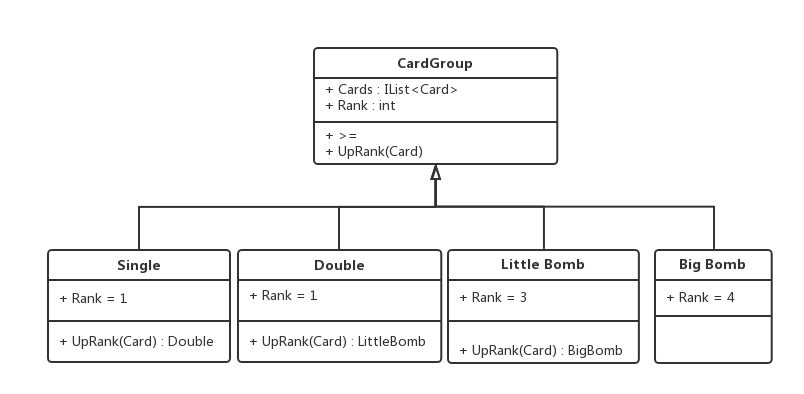
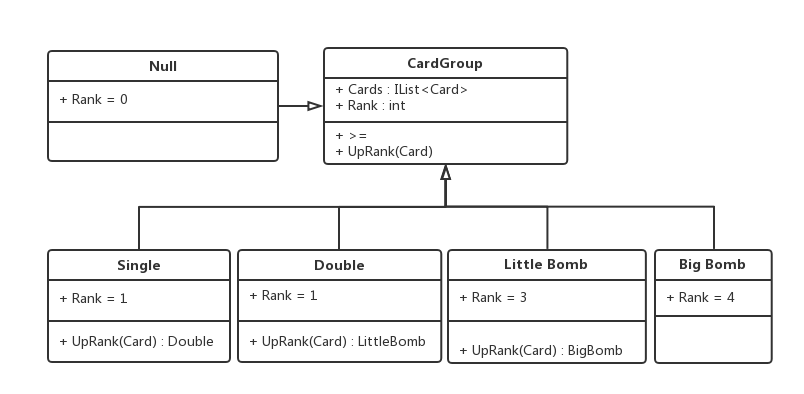
Step 8: 使用继承和多态实现多种牌型

diff --git a/PokerGame.Test/CardGroupTests.cs b/PokerGame.Test/CardGroupTests.cs
@@ -1,0 +1,102 @@
+using System.Collections.Generic;
+using NUnit.Framework;
+
+namespace PokerGame.Test
+{
+    [TestFixture]
+    public class CardGroupTests
+    {
+        private CardGroup big;
+        private CardGroup little;
+        
+        [Test]
+        public void when_up_rank_to_double()
+        {
+            big = new Single(new Card("黑桃", "7"))
+                .UpRank(new Card("红桃", "7"));
+            Assert.IsInstanceOf<Double>(big);
+        }
+
+        [Test]
+        public void when_up_rank_to_little_bomb()
+        {
+            big = new Single(new Card("黑桃", "7"))
+                .UpRank(new Card("红桃", "7"))
+                .UpRank(new Card("梅花", "7"));
+            Assert.IsInstanceOf<LittleBomb>(big);
+        }
+
+        [Test]
+        public void when_up_rank_to_big_bomb()
+        {
+            big = new Single(new Card("黑桃", "7"))
+                .UpRank(new Card("红桃", "7"))
+                .UpRank(new Card("梅花", "7"))
+                .UpRank(new Card("方块", "7"));
+            Assert.IsInstanceOf<BigBomb>(big);
+        }
+
+        [Test]
+        public void when_compare_single_with_single()
+        {
+            big = new Single(new Card("黑桃", "7"));
+            little = new Single(new Card("黑桃", "10"));
+            Assert.True(big >= little);
+        }
+
+        [Test]
+        public void when_compare_little_bomb_with_little_bomb()
+        {
+            big = new Single(new Card("黑桃", "7"))
+                .UpRank(new Card("红桃", "7"))
+                .UpRank(new Card("梅花", "7"));
+            little = new Single(new Card("黑桃", "4"))
+                .UpRank(new Card("红桃", "4"))
+                .UpRank(new Card("梅花", "4"));
+            Assert.True(big >= little);
+        }
+
+        [Test]
+        public void when_compare_double_with_single()
+        {
+            big = new Single(new Card("黑桃", "7"))
+                .UpRank(new Card("红桃", "7"));
+            little = new Single(new Card("黑桃", "4"));
+            Assert.False(big >= little);
+        }
+
+        [Test]
+        public void when_compare_little_bomb_with_single()
+        {
+            big = new Single(new Card("黑桃", "4"))
+                .UpRank(new Card("红桃", "4"))
+                .UpRank(new Card("梅花", "4"));
+            little = new Single(new Card("黑桃", "7"));
+            Assert.True(big >= little);
+        }
+
+        [Test]
+        public void when_compare_little_bomb_with_double()
+        {
+            big = new Single(new Card("黑桃", "4"))
+                .UpRank(new Card("红桃", "4"))
+                .UpRank(new Card("梅花", "4"));
+            little = new Single(new Card("黑桃", "7"))
+                .UpRank(new Card("红桃", "7"));
+            Assert.True(big >= little);
+        }
+
+        [Test]
+        public void when_compare_big_bomb_with_little_bomb()
+        {
+            big = new Single(new Card("黑桃", "4"))
+                .UpRank(new Card("红桃", "4"))
+                .UpRank(new Card("梅花", "4"))
+                .UpRank(new Card("方片", "4"));
+            little = new Single(new Card("黑桃", "7"))
+                .UpRank(new Card("红桃", "7"))
+                .UpRank(new Card("梅花", "7"));
+            Assert.True(big >= little);
+        }
+    }
+}

diff --git a/PokerGame/CardGroup.cs b/PokerGame/CardGroup.cs
@@ -1,0 +1,52 @@
+using System;
+using System.Collections.Generic;
+using System.Text;
+
+namespace PokerGame
+{
+    public abstract class CardGroup
+    {
+        public virtual IList<Card> Cards { get; set; }
+        public virtual int Rank { get; protected set; }
+
+        protected CardGroup()
+        {
+            Cards = new List<Card>();
+        }
+
+        protected CardGroup(IList<Card> cards, Card newCard)
+        {
+            Cards = new List<Card>();
+            foreach (var card in cards)
+                Cards.Add(card);
+            Cards.Add(newCard);
+        }
+
+        public static bool operator >=(CardGroup first, CardGroup second)
+        {
+            if (first.GetType().Equals(second.GetType()))
+                return first.Cards[0] >= second.Cards[0];
+            return first.Rank > second.Rank;
+        }
+
+        public static bool operator <=(CardGroup first, CardGroup second)
+        {
+            throw new InvalidOperationException("不支持该操作");
+        }
+
+        public abstract CardGroup UpRank(Card card);
+
+        public static CardGroup Null()
+        {
+            return new Null();
+        }
+
+        public override string ToString()
+        {
+            var sb = new StringBuilder();
+            foreach (var card in Cards)
+                sb.Append(card).Append(" ");
+            return sb.ToString();
+        }
+    }
+}

diff --git a/PokerGame/LittleBomb.cs b/PokerGame/LittleBomb.cs
@@ -1,0 +1,17 @@
+using System.Collections.Generic;
+
+namespace PokerGame
+{
+    public class LittleBomb : CardGroup
+    {
+        public LittleBomb(IList<Card> cards, Card newCard) : base(cards, newCard)
+        {
+            Rank = 3;
+        }
+
+        public override CardGroup UpRank(Card card)
+        {
+            return new BigBomb(Cards, card);
+        }
+    }
+}

diff --git a/PokerGame/Double.cs b/PokerGame/Double.cs
@@ -1,0 +1,17 @@
+using System.Collections.Generic;
+
+namespace PokerGame
+{
+    public class Double : CardGroup
+    {
+        public Double(IList<Card> cards, Card newCard) : base(cards, newCard)
+        {
+            Rank = 1;
+        }
+
+        public override CardGroup UpRank(Card card)
+        {
+            return new LittleBomb(Cards, card);
+        }
+    }
+}

diff --git a/PokerGame/Single.cs b/PokerGame/Single.cs
@@ -1,0 +1,17 @@
+using System.Collections.Generic;
+
+namespace PokerGame
+{
+    public class Single : CardGroup
+    {
+        public Single(Card newCard) : base(new List<Card>(), newCard)
+        {
+            Rank = 1;
+        }
+
+        public override CardGroup UpRank(Card card)
+        {
+            return new Double(Cards, card);
+        }
+    }
+}

diff --git a/PokerGame/Null.cs b/PokerGame/Null.cs
@@ -1,0 +1,17 @@
+using System.Collections.Generic;
+
+namespace PokerGame
+{
+    public class Null : CardGroup
+    {
+        public Null()
+        {
+            Rank = 0;
+        }
+
+        public override CardGroup UpRank(Card card)
+        {
+            return new Single(card);
+        }
+    }
+}
